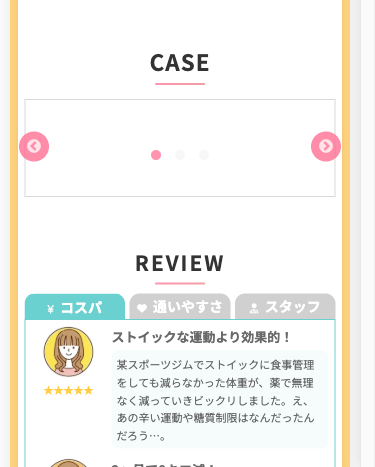
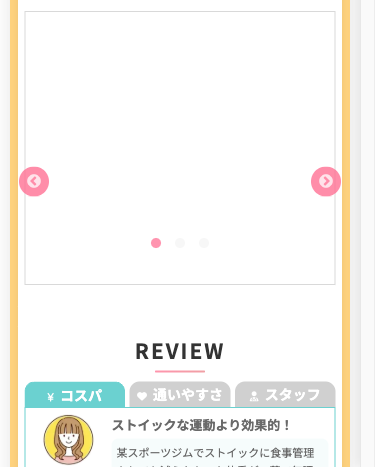
CASEセクションの画像サイズをさらに調整
- SPサイズ: width: 100%, max-width: 320pxに変更
- padding: 2% → 10pxに変更してより見やすく
- max-height: 180pxで適切なサイズに
- PC版にもmax-width: 600pxを追加

🤖 Generated with [Claude Code](https://claude.ai/code)

diff --git a/check-production-with-cache-bust.js b/check-production-with-cache-bust.js
@@ -1,0 +1,156 @@
+const { chromium } = require('playwright');
+
+(async () => {
+    const browser = await chromium.launch({ 
+        headless: false,
+        devtools: true
+    });
+    
+    // キャッシュを無効化
+    const context = await browser.newContext({
+        bypassCSP: true,
+        ignoreHTTPSErrors: true
+    });
+    
+    const page = await context.newPage();
+    
+    // キャッシュを無効化
+    await page.route('**/*.css', route => {
+        route.continue({
+            headers: {
+                ...route.request().headers(),
+                'cache-control': 'no-cache'
+            }
+        });
+    });
+    
+    console.log('🔍 本番環境でCASEセクションを確認（キャッシュバスト）\n');
+    
+    await page.setViewportSize({ width: 375, height: 667 });
+    
+    // タイムスタンプを追加してキャッシュをバイパス
+    const timestamp = Date.now();
+    await page.goto(`https://www.xn--ecki4eoz3204ct89aepry34c.com/draft/?t=${timestamp}`, {
+        waitUntil: 'networkidle'
+    });
+    
+    // CSSファイルの読み込み状況を確認
+    const cssFiles = await page.evaluate(() => {
+        const links = Array.from(document.querySelectorAll('link[rel="stylesheet"]'));
+        return links.map(link => ({
+            href: link.href,
+            loaded: link.sheet !== null
+        }));
+    });
+    
+    console.log('📄 読み込まれたCSSファイル:');
+    cssFiles.forEach(css => {
+        if (css.href.includes('styles.css') || css.href.includes('responsive-fix')) {
+            console.log(`  ${css.loaded ? '✅' : '❌'} ${css.href}`);
+        }
+    });
+    
+    // CASEセクションまでスクロール
+    await page.evaluate(() => {
+        const caseSection = document.querySelector('.case-slider');
+        if (caseSection) {
+            caseSection.scrollIntoView({ behavior: 'smooth', block: 'center' });
+        }
+    });
+    
+    await page.waitForTimeout(3000);
+    
+    // 画像とコンテナのサイズを確認
+    const sizeInfo = await page.evaluate(() => {
+        const img = document.querySelector('.case-slider .slick-slide.slick-current img');
+        const slider = document.querySelector('.case-slider.slick-initialized');
+        const slickList = document.querySelector('.case-slider .slick-list');
+        
+        const results = {};
+        
+        if (img) {
+            const imgRect = img.getBoundingClientRect();
+            const imgStyles = window.getComputedStyle(img);
+            results.image = {
+                displaySize: `${imgRect.width.toFixed(0)}x${imgRect.height.toFixed(0)}`,
+                styles: {
+                    width: imgStyles.width,
+                    height: imgStyles.height,
+                    maxWidth: imgStyles.maxWidth,
+                    maxHeight: imgStyles.maxHeight
+                }
+            };
+        }
+        
+        if (slider) {
+            const sliderStyles = window.getComputedStyle(slider);
+            results.slider = {
+                height: sliderStyles.height,
+                minHeight: sliderStyles.minHeight
+            };
+        }
+        
+        if (slickList) {
+            const listStyles = window.getComputedStyle(slickList);
+            results.slickList = {
+                height: listStyles.height,
+                minHeight: listStyles.minHeight
+            };
+        }
+        
+        // スタイルシートから直接ルールを確認
+        const rules = [];
+        for (const sheet of document.styleSheets) {
+            try {
+                for (const rule of sheet.cssRules) {
+                    if (rule.cssText.includes('.case-slider') && 
+                        rule.cssText.includes('min-height')) {
+                        rules.push(rule.cssText.substring(0, 200));
+                    }
+                }
+            } catch (e) {}
+        }
+        results.cssRules = rules;
+        
+        return results;
+    });
+    
+    console.log('\n📐 サイズ情報:');
+    if (sizeInfo.image) {
+        console.log('画像:');
+        console.log(`  表示サイズ: ${sizeInfo.image.displaySize}px`);
+        console.log(`  width: ${sizeInfo.image.styles.width}`);
+        console.log(`  height: ${sizeInfo.image.styles.height}`);
+        console.log(`  max-width: ${sizeInfo.image.styles.maxWidth}`);
+        console.log(`  max-height: ${sizeInfo.image.styles.maxHeight}`);
+    }
+    
+    if (sizeInfo.slider) {
+        console.log('\nスライダー:');
+        console.log(`  height: ${sizeInfo.slider.height}`);
+        console.log(`  min-height: ${sizeInfo.slider.minHeight}`);
+    }
+    
+    if (sizeInfo.slickList) {
+        console.log('\nslick-list:');
+        console.log(`  height: ${sizeInfo.slickList.height}`);
+        console.log(`  min-height: ${sizeInfo.slickList.minHeight}`);
+    }
+    
+    if (sizeInfo.cssRules.length > 0) {
+        console.log('\n適用されているCSSルール:');
+        sizeInfo.cssRules.forEach(rule => {
+            console.log(`  ${rule}...`);
+        });
+    }
+    
+    // スクリーンショット
+    await page.screenshot({ 
+        path: 'production-case-after-fix.png',
+        fullPage: false
+    });
+    
+    console.log('\n📸 スクリーンショット: production-case-after-fix.png');
+    
+    await browser.close();
+})();

diff --git a/public/draft/styles.css b/public/draft/styles.css
@@ -6369,6 +6369,7 @@ section.clinic-rankings .ranking-header-banner {
 
 .case-slider img {
     width: 100%;
+    max-width: 600px;
     height: auto;
     display: block;
     margin: 0 auto;
@@ -6509,11 +6510,11 @@ section.clinic-rankings .ranking-header-banner {
     
     /* 画像の幅を画面幅に応じて調整 */
     .case-slider .slick-slide img {
-        padding: 2%;
-        width: auto !important;
-        max-width: 90% !important;
+        padding: 10px;
+        width: 100% !important;
+        max-width: 320px !important;
         height: auto !important;
-        max-height: 200px !important;
+        max-height: 180px !important;
         object-fit: contain !important;
         margin: 0 auto !important;
         display: block !important;
